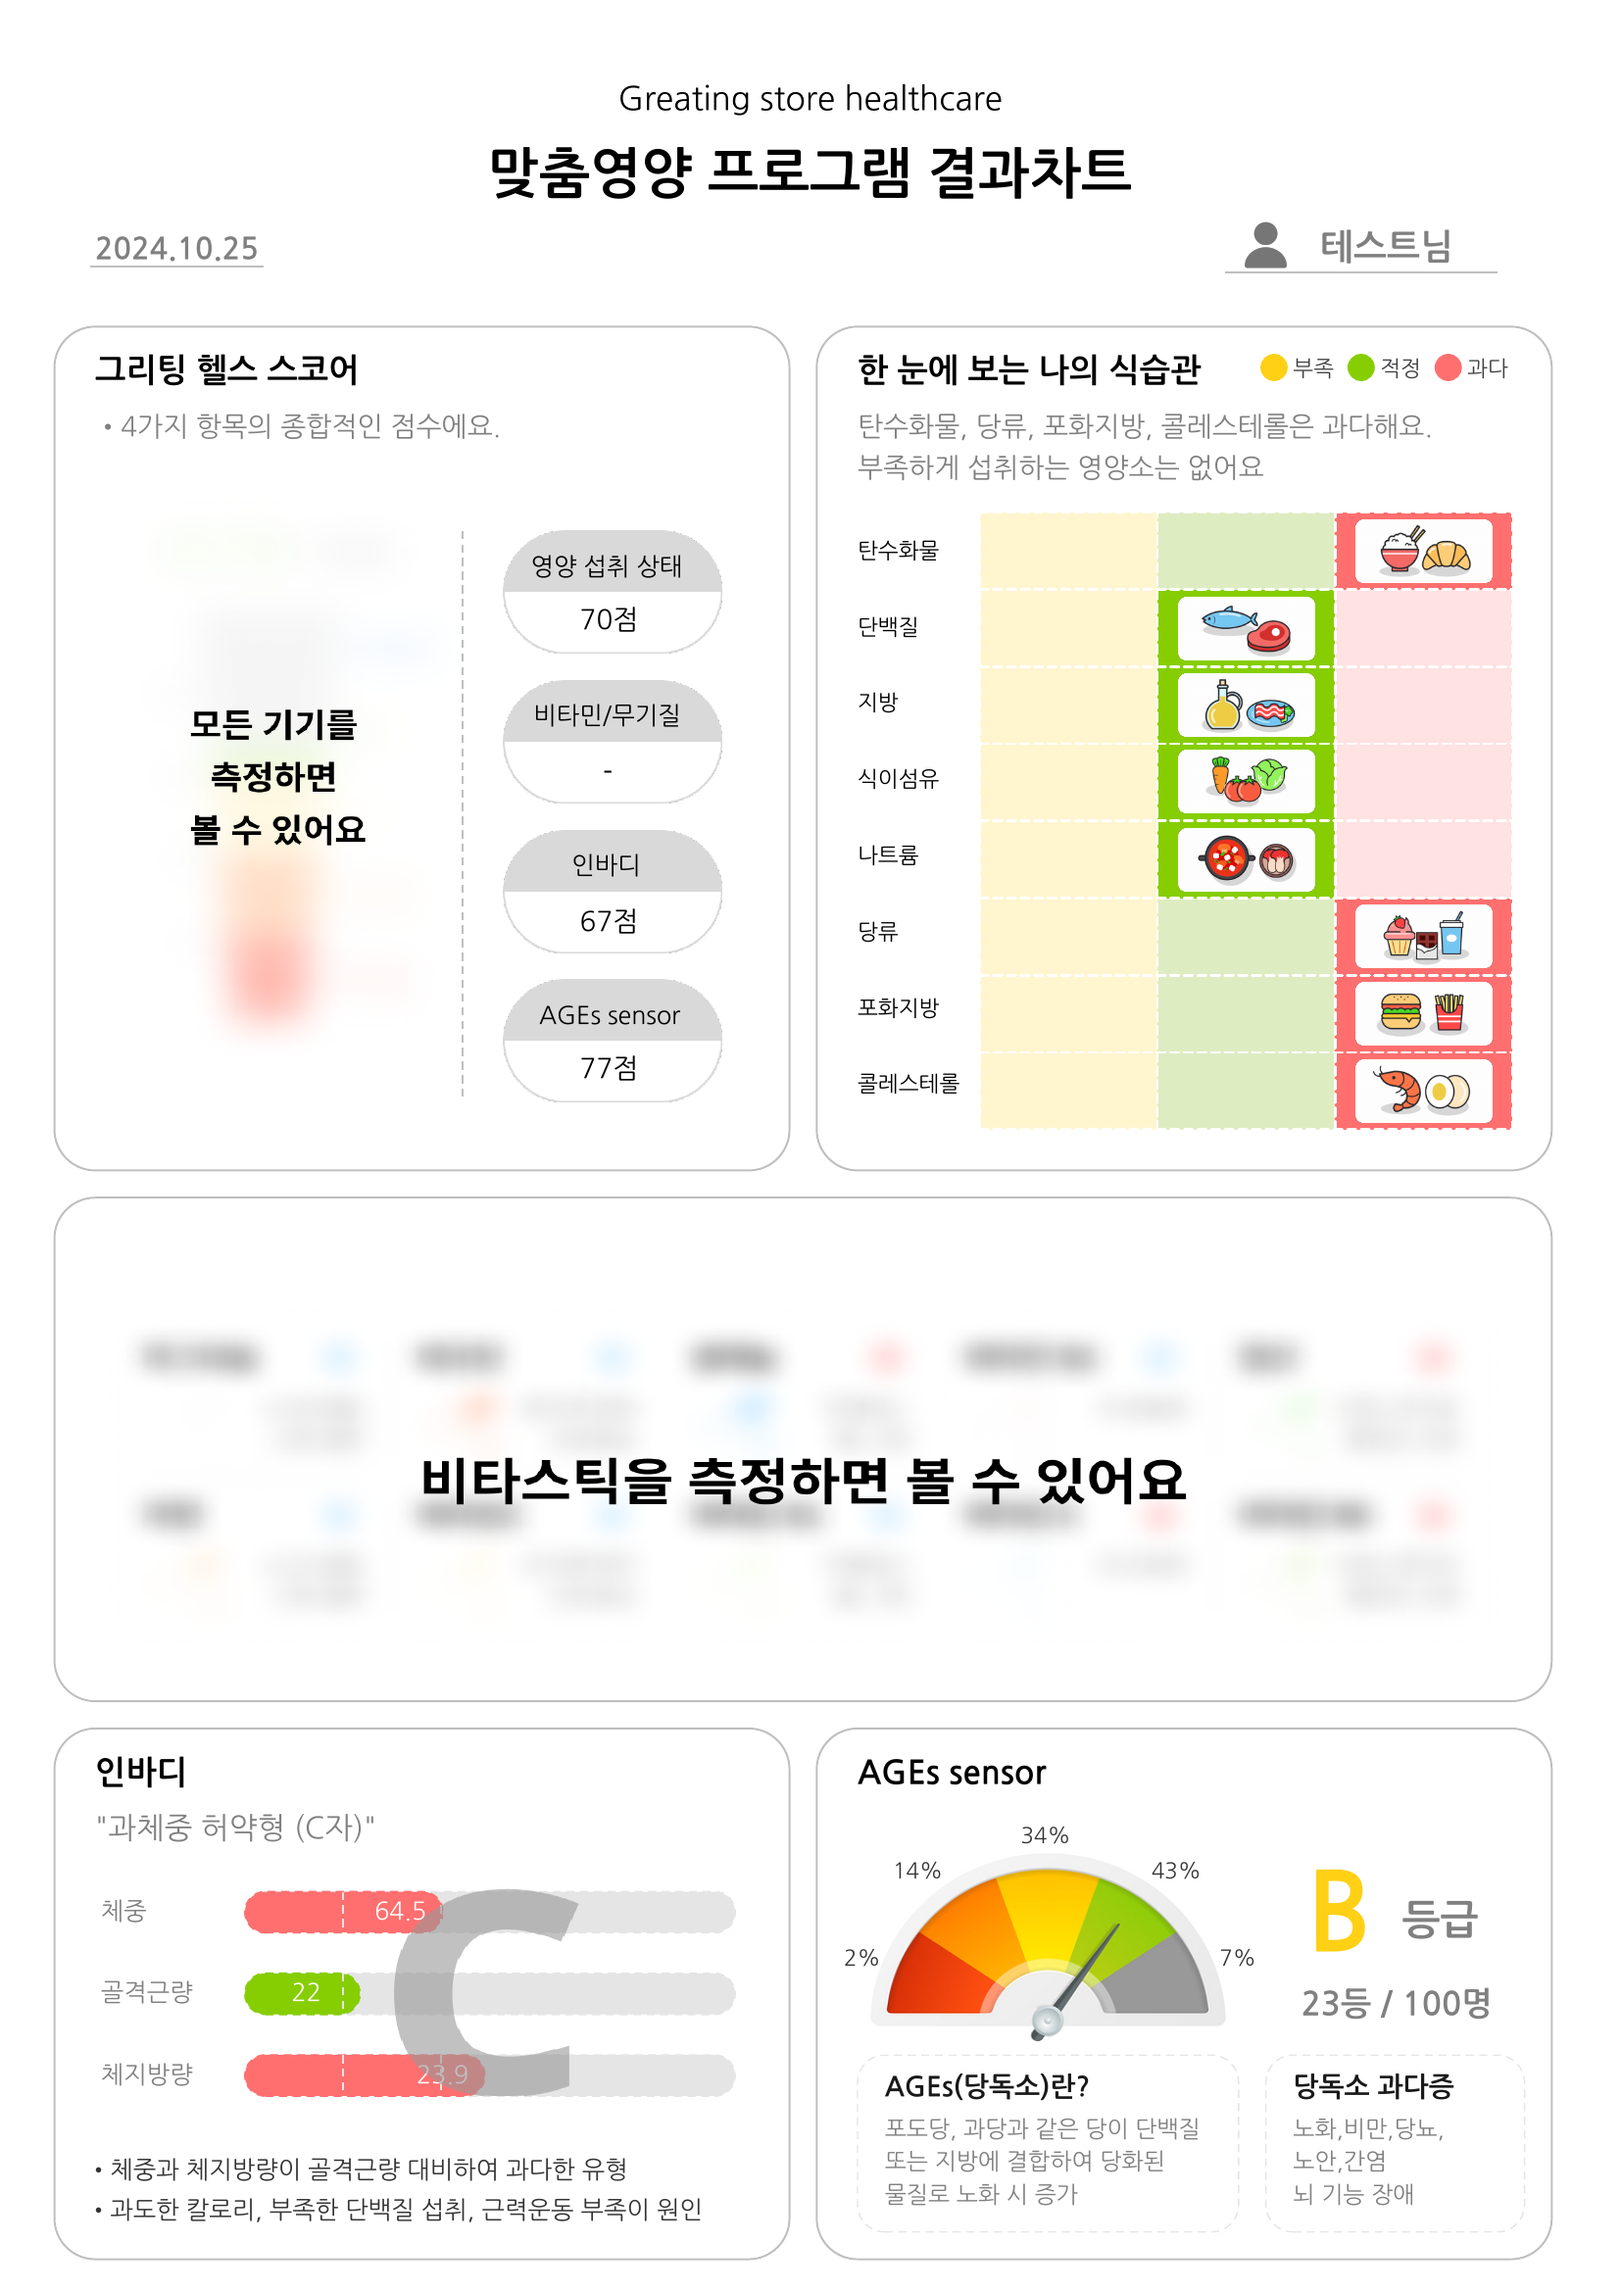
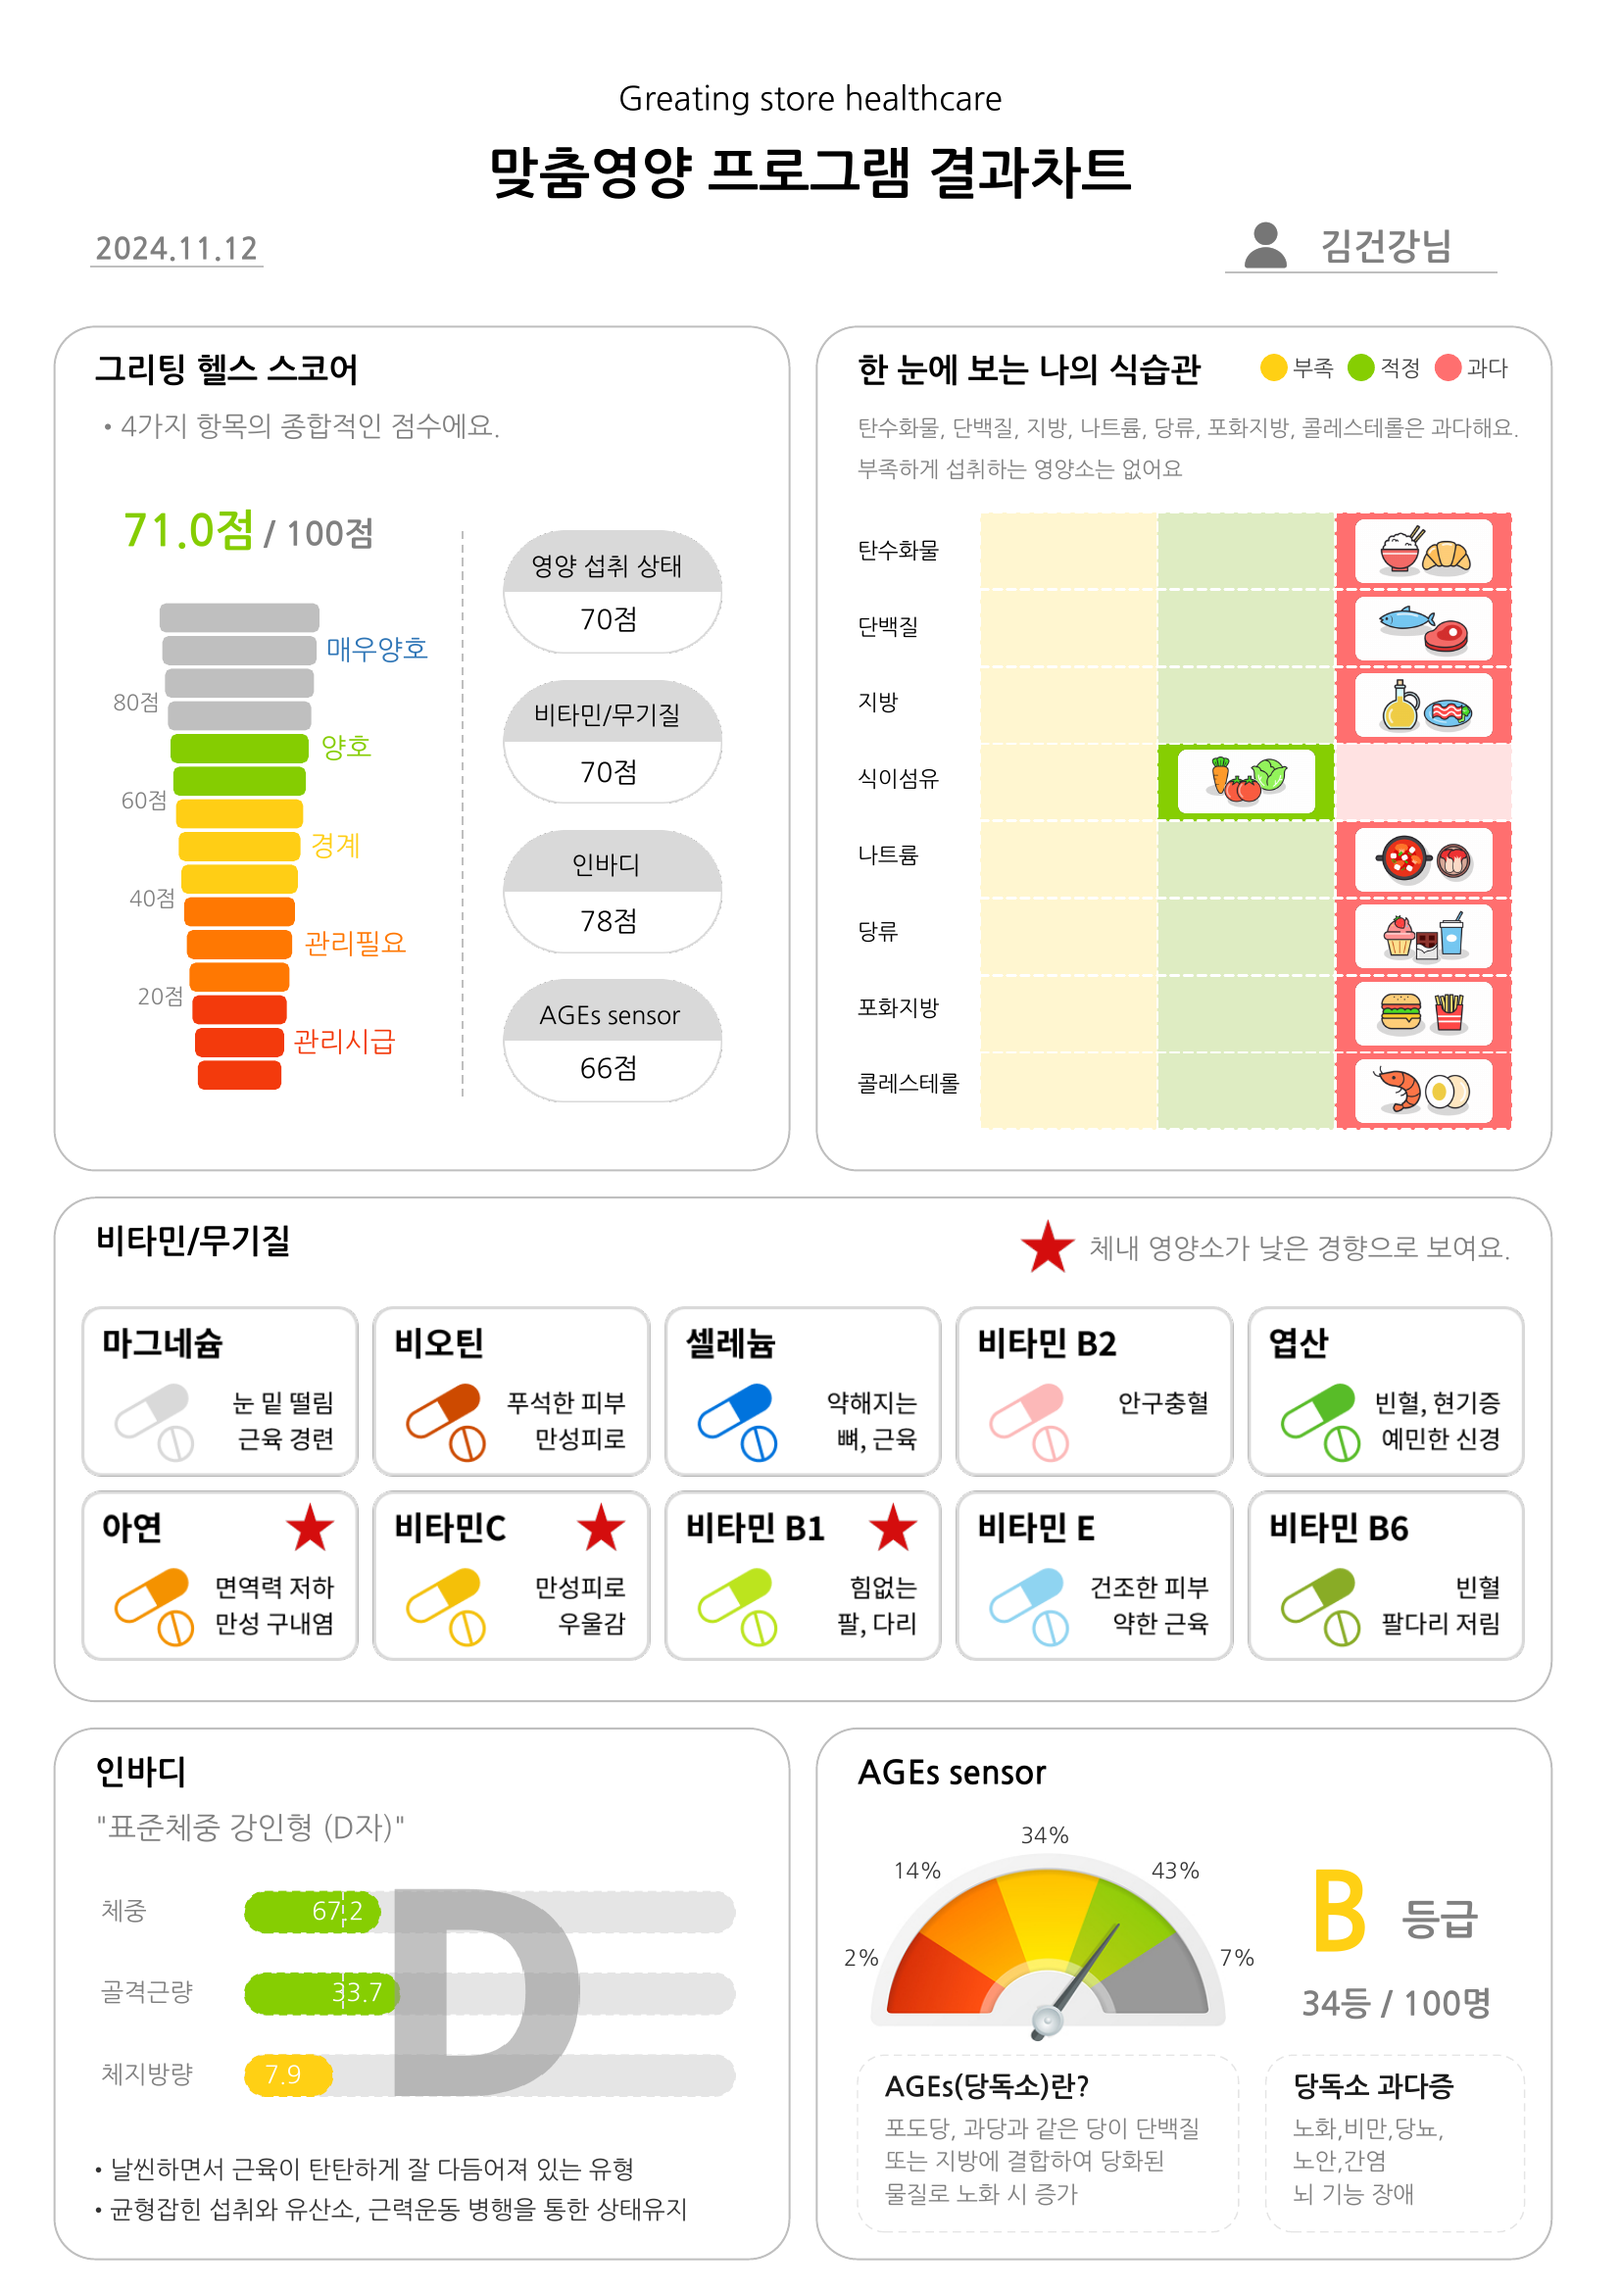
인바디 유형구분 추가(24.11.12)

diff --git a/createpdf.py b/createpdf.py
@@ -723,6 +723,8 @@ def set_category(Inbody):
             C_id="D_ss"
         elif 90<skeletalP<110 and 80<fatP<160:
             C_id="I_sh"
+        elif 90<skeletalP<110 and fatP<80:
+            C_id="D_ss"    
         else:
             C_id="N"    
     elif 115<=weightP:                    #(07.09 4시 수정)
@@ -769,6 +771,8 @@ def set_category_small(Inbody,UserHeight,Gender):
             C_id="D_ss"
         elif 90<skeletalP<110 and 80<fatP<160:
             C_id="I_sh"
+        elif 90<skeletalP<110 and fatP<80:
+            C_id="D_ss"    
         else:
             C_id="N"    
     elif 115<=weightP:                  
@@ -1941,8 +1945,8 @@ def create_basic_pdf(Nutrition,Vitastiq,Inbody,Agesensor,Name,Gender,NutriD,Supp
 if __name__ == "__main__":
     Nutri=Nutrition(EatScore=70, Carb="과다", Protein="과다", Fat="과다", Fiber="적정", Sodium="과다", Sugar="과다", SatFat="과다", Cholesterol="과다",UserHeight=147)
     Vita=Vitastiq(Unused=False,Biotin="", VitC="낮음", Mg="", VitB1="낮음", VitB2="", Zn="낮음", Se="", VitB6="", VitE="", Folate="")
-    Inbo=Inbody(InbodyScore=73,Weight=48.3,BodyFat=15.3,FatFree=33,ApproWeight=45.4,WeightMax=48,MuscleMax=20,FatMax=15,Recomcal=1634,SkeletalMuscle=17.6)
+    Inbo=Inbody(InbodyScore=78,Weight=67.2,BodyFat=7.9,FatFree=59.3,ApproWeight=69.7,WeightMax=80.2,MuscleMax=36.5,FatMax=16.7,Recomcal=2581,SkeletalMuscle=33.7)
     Age=Agesensor(Rating="B",Rank=34)
     NutriD=NutritionDetail(CarbH=324.3,CarbV=74.9,ProteinL=34.9,ProteinV=19,FatH=66.5,FatV=22.6,FiberL=23.9,FiberV=8,SodiumH=2300,SodiumV=774,SugarH=50,SugarV=20.6,SatFatH=15.5,SatFatV=3.7,CholesterolH=300,CholesterolV=78)
     Supple=Supplements(sup1="추천 영양제 1번",sup2="추천 영양제 2번",sup3="추천 영양제 3번",sup4="추천 영양제 4번",inter1="근력",inter2="소화기/장건강",inter3="면역력")
-    create_basic_pdf(Nutri,Vita,Inbo,Age,"김건강","여성",NutriD,Supple,"판교점","활동적",24)
+    create_basic_pdf(Nutri,Vita,Inbo,Age,"김건강","여성",NutriD,Supple,"중동점","활동적",24)

diff --git a/createpdf2.py b/createpdf2.py
@@ -65,6 +65,8 @@ def set_category(Inbody):
             C_id="D_ss"
         elif 90<skeletalP<110 and 80<fatP<160:
             C_id="I_sh"
+        elif 90<skeletalP<110 and fatP<80:
+            C_id="D_ss"    
         else:
             C_id="N"    
     elif 115<=weightP:
